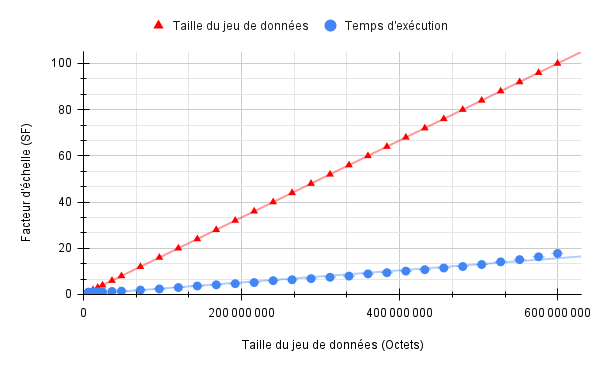
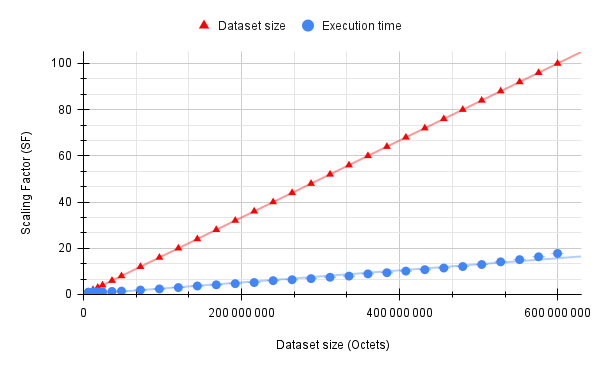
[~] Fix image vacuum + graph en anglais

diff --git a/_projects/(3) Vacuum Agent.md b/_projects/(3) Vacuum Agent.md
@@ -1,7 +1,7 @@
 ---
 name: Vacuum Agent
 tools: [Python, Agent, Thread, Event ,Tkinter, BDI, Vacuum-Cleaner, Simpy, Agent-Based-Simulation, BDI-Model, Vacuum-Robot]
-image: ../assets/img/portfolio/vacuum_agent/vacuum_agent.png
+image: ../assets/img/portfolio/vacuum_agent/preview.png
 description: Implementation of A* and BFS algorithms with custom heuristics in the scope of a vacuum agent with graphical interface
 ---
 ## About 
